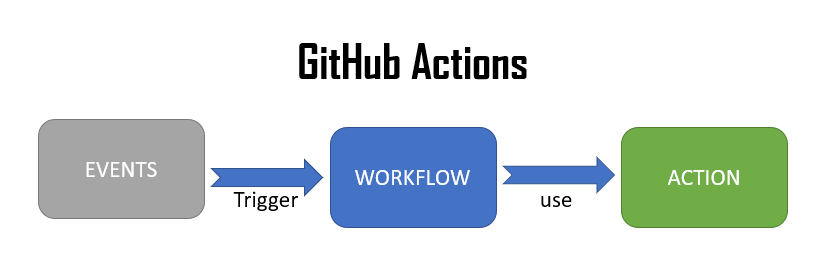
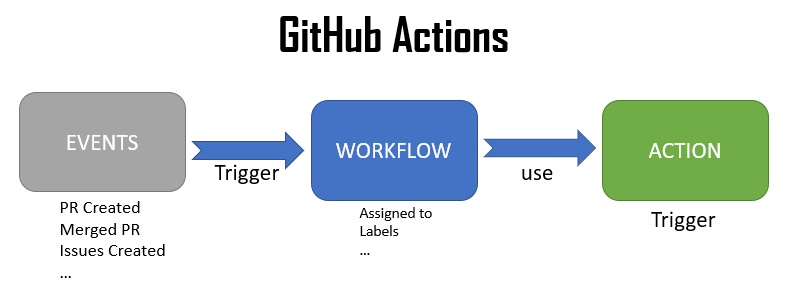
wip

diff --git a/site/weekly/Gitaction/gitaction/index.html b/site/weekly/Gitaction/gitaction/index.html
@@ -61,6 +61,8 @@
                   </li>
                   <li class="toctree-l1 current"><a class="reference internal current" href="./">GitHub Action</a>
     <ul class="current">
+    <li class="toctree-l2"><a class="reference internal" href="#description-of-the-below-yaml-file">Description of the below yaml file</a>
+    </li>
     </ul>
                   </li>
                   <li class="toctree-l1"><a class="" href="../../Terraform/github.md">Terraform</a>
@@ -111,24 +113,45 @@
 <p>GitHub Actions is a continuous integration and continuous delivery (CI/CD) platform that allows 
 you to automate your build, test, and deployment pipeline. You can create workflows that build 
 and test every pull request to your repository, or deploy merged pull requests to production.</p>
+<p>Github actions has three main components: Events -&gt; Workflows -&gt; Actions
+Workflow triggers are events that cause a workflow to run.<br />
+Events provide status updates from GitHub repos from code commits or other event of a project.</p>
 <p><img alt="action1" src="../photos/action1.png" /></p>
-<p>for more information on workflows. <a href="https://docs.github.com/en/actions/using-workflows">see site-link:</a></p>
+<p>For more information on workflows. <a href="https://docs.github.com/en/actions/using-workflows">see site-link:</a>
+For more information about how to use workflow triggers: See <a href="https://docs.github.com/en/actions/using-workflows/triggering-a-workflow">workflow triggers</a></p>
+<h2 id="description-of-the-below-yaml-file">Description of the below yaml file</h2>
+<ul>
+<li>name: is straightforward, you can name what ever name you choose</li>
+<li>The events is the line thet starts with On. In the yaml file, we have an event to push.</li>
+<li>actions/checkout@v3: is already defined in Github. You can see more Here: <a href="https://github.com/orgs/actions/repositories">github actions</a></li>
+<li>create a personal access token in your HitHub account and name: PERSONAL_TOKEN</li>
+</ul>
 <pre><code class="language-yml">name: Publish docs via GitHub Pages
 on:
   push:
     branches:
       - main
+permissions:
+  contents: write
+
 jobs:
-  build:
-    name: 'Deploy docs'
+  deploy:
     runs-on: ubuntu-latest
     steps:
-      - uses: actions/checkout@v2
-      - name: Checkout private actions
-        uses: sosotechnologies/mkdocs_gitactions_.io@v1
+      - uses: actions/checkout@v3
+      - uses: actions/setup-python@v4
+        with:
+          python-version: 3.x
+      - uses: actions/cache@v2
+        with:
+          key: ${{ github.ref }}
+          path: .cache
+      - run: pip install mkdocs-material 
+      - run: mkdocs gh-deploy --force
         env:
           PERSONAL_TOKEN: ${{ secrets.PERSONAL_TOKEN }}
           CONFIG_FILE: folder/mkdocs.yml
+          #GITHUB_TOKEN: ${{ secrets.GITHUB_TOKEN }}
           #GITHUB_TOKEN: ${{ secrets.GITHUB_TOKEN }}
 </code></pre>
               

diff --git a/docs/weekly/Random/3tier.md b/docs/weekly/Random/3tier.md
@@ -1,0 +1,52 @@
+# What is a 3 tier Application?
+A 3-tier application will compose of 3 layers: a Presentation tier, an Application tier, and a Data tier.
+
+## Benefits of a 3 tier Application?
+The benefits of using a 3-tier architecture include improved horizontal scalability, 
+performance, and availability. With three tiers, each part can be developed concurrently 
+by a different team of programmers coding in different languages from the other tier developers. 
+Because the programming for a tier can be changed or relocated without affecting the other 
+tiers, the 3-tier model makes it easier for an enterprise or software packager to continually 
+evolve an application as new needs and opportunities arise. Existing applications or critical 
+parts can be permanently or temporarily retained and encapsulated within the new tier of 
+which it becomes a component.
+
+### The 3 different layers explained
+An example 3 tier application will compose of 3 layers: 
+a Presentation tier, an application tier, and a Data tier. 
+
+***The Presentation tier*** is a graphical user interface (GUI) that communicates with 
+the other two tiers…in this layer, the users can directly access the web page, or an operating 
+system's GUI. The is written in languages like built with HTML5, cascading style sheets (CSS) 
+and JavaScript, and the presentation tier communicates with the other tiers through application 
+program interface (API) calls.
+
+***Application tier*** also known as the business logic tier… controls how the application 
+functions. The application layer is written in a programming language such as Java and contains 
+the business logic that supports the application's core functions. The underlying application 
+tier can either be hosted on distributed servers in the cloud or on a dedicated in-house server, 
+depending on how much processing power the application requires. 
+
+***Data tier*** contains the database servers, file shares, and anything that will be 
+saved in the database... it can be hosted on-prem or in the cloud. Popular database 
+systems for managing read/write access include MySQL, PostgreSQL, Microsoft 
+  
+  ![tier1](3tier-photos/tier1.png)
+
+  Sample AWS 3-Tier Application
+  ![tier2](3tier-photos/tier2.png) 
+
+  ***The Presentation tier***
+    1.	A Public Route Table — associated with 2 Public Subnets (1/AZ)
+    2.  At least 2 EC2 instances with a boot strapped Static Web Page — managed by an Auto Scaling Group
+    3.  EC2 Web Server Security Group
+
+  ***The Application tier*** 
+    1.	A Private Route Table — associated with 2 Private Subnets (1/AZ)
+    2.	At least 2 EC2 instances managed by an Auto Scaling Group
+    3.	EC2 Application Server Security Group
+
+  ***The Data tier***
+    1.	A Private Route Table — associated with 2 Private Subnets (1/AZ)
+    2.	A Database Security Group
+    3.	A free Tier MySQL RDS Database

diff --git a/docs/weekly/Gitaction/gitaction.md b/docs/weekly/Gitaction/gitaction.md
@@ -47,3 +47,10 @@ jobs:
           #GITHUB_TOKEN: ${{ secrets.GITHUB_TOKEN }}
           #GITHUB_TOKEN: ${{ secrets.GITHUB_TOKEN }}
 ```
+
+.github/workflows
+
+[mkdocs github actions](https://squidfunk.github.io/mkdocs-material/publishing-your-site/#material-for-mkdocs)
+
+[managing-a-custom-domain](https://docs.github.com/en/pages/configuring-a-custom-domain-for-your-github-pages-site/managing-a-custom-domain-for-your-github-pages-site)
+

diff --git a/docs/weekly/Terraform/terraform.md b/docs/weekly/Terraform/terraform.md
@@ -1,0 +1,1 @@
+for more information see link: [Sosotech Terraform Repo](https://github.com/sosotechnologies/soso-terraform)
